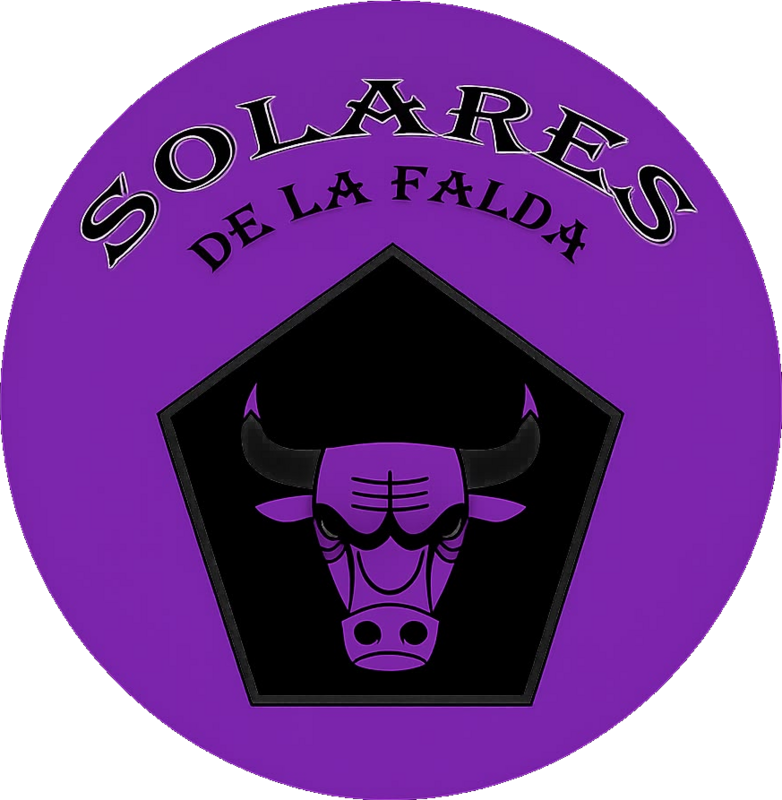
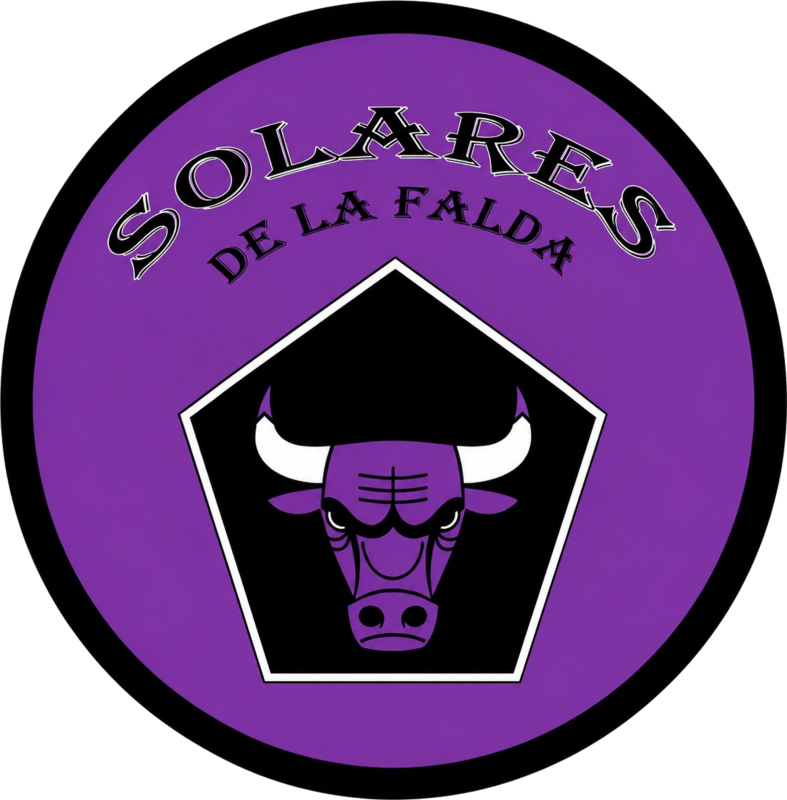
fix(crests): use the corrected escudo 3 and remove 2014 from escudo 4

Changed region(s): [[0.0, 0.0, 1.0, 1.0]]

diff --git a/src/data/crests.ts b/src/data/crests.ts
@@ -44,7 +44,7 @@ export const crests: readonly Crest[] = [
     image: {
       src: crest3Png,
       webp: crest3Webp,
-      width: 782,
+      width: 787,
       height: 800,
       alt: 'Escudo circular violeta de Solares de la Falda con una cabeza de toro.',
     },
@@ -56,9 +56,9 @@ export const crests: readonly Crest[] = [
     image: {
       src: crest4Png,
       webp: crest4Webp,
-      width: 604,
+      width: 708,
       height: 800,
-      alt: 'Escudo circular violeta de Solares de la Falda con dos estrellas y el año 2014.',
+      alt: 'Escudo circular violeta de Solares de la Falda con una cabeza de toro y dos estrellas.',
     },
   },
   {
